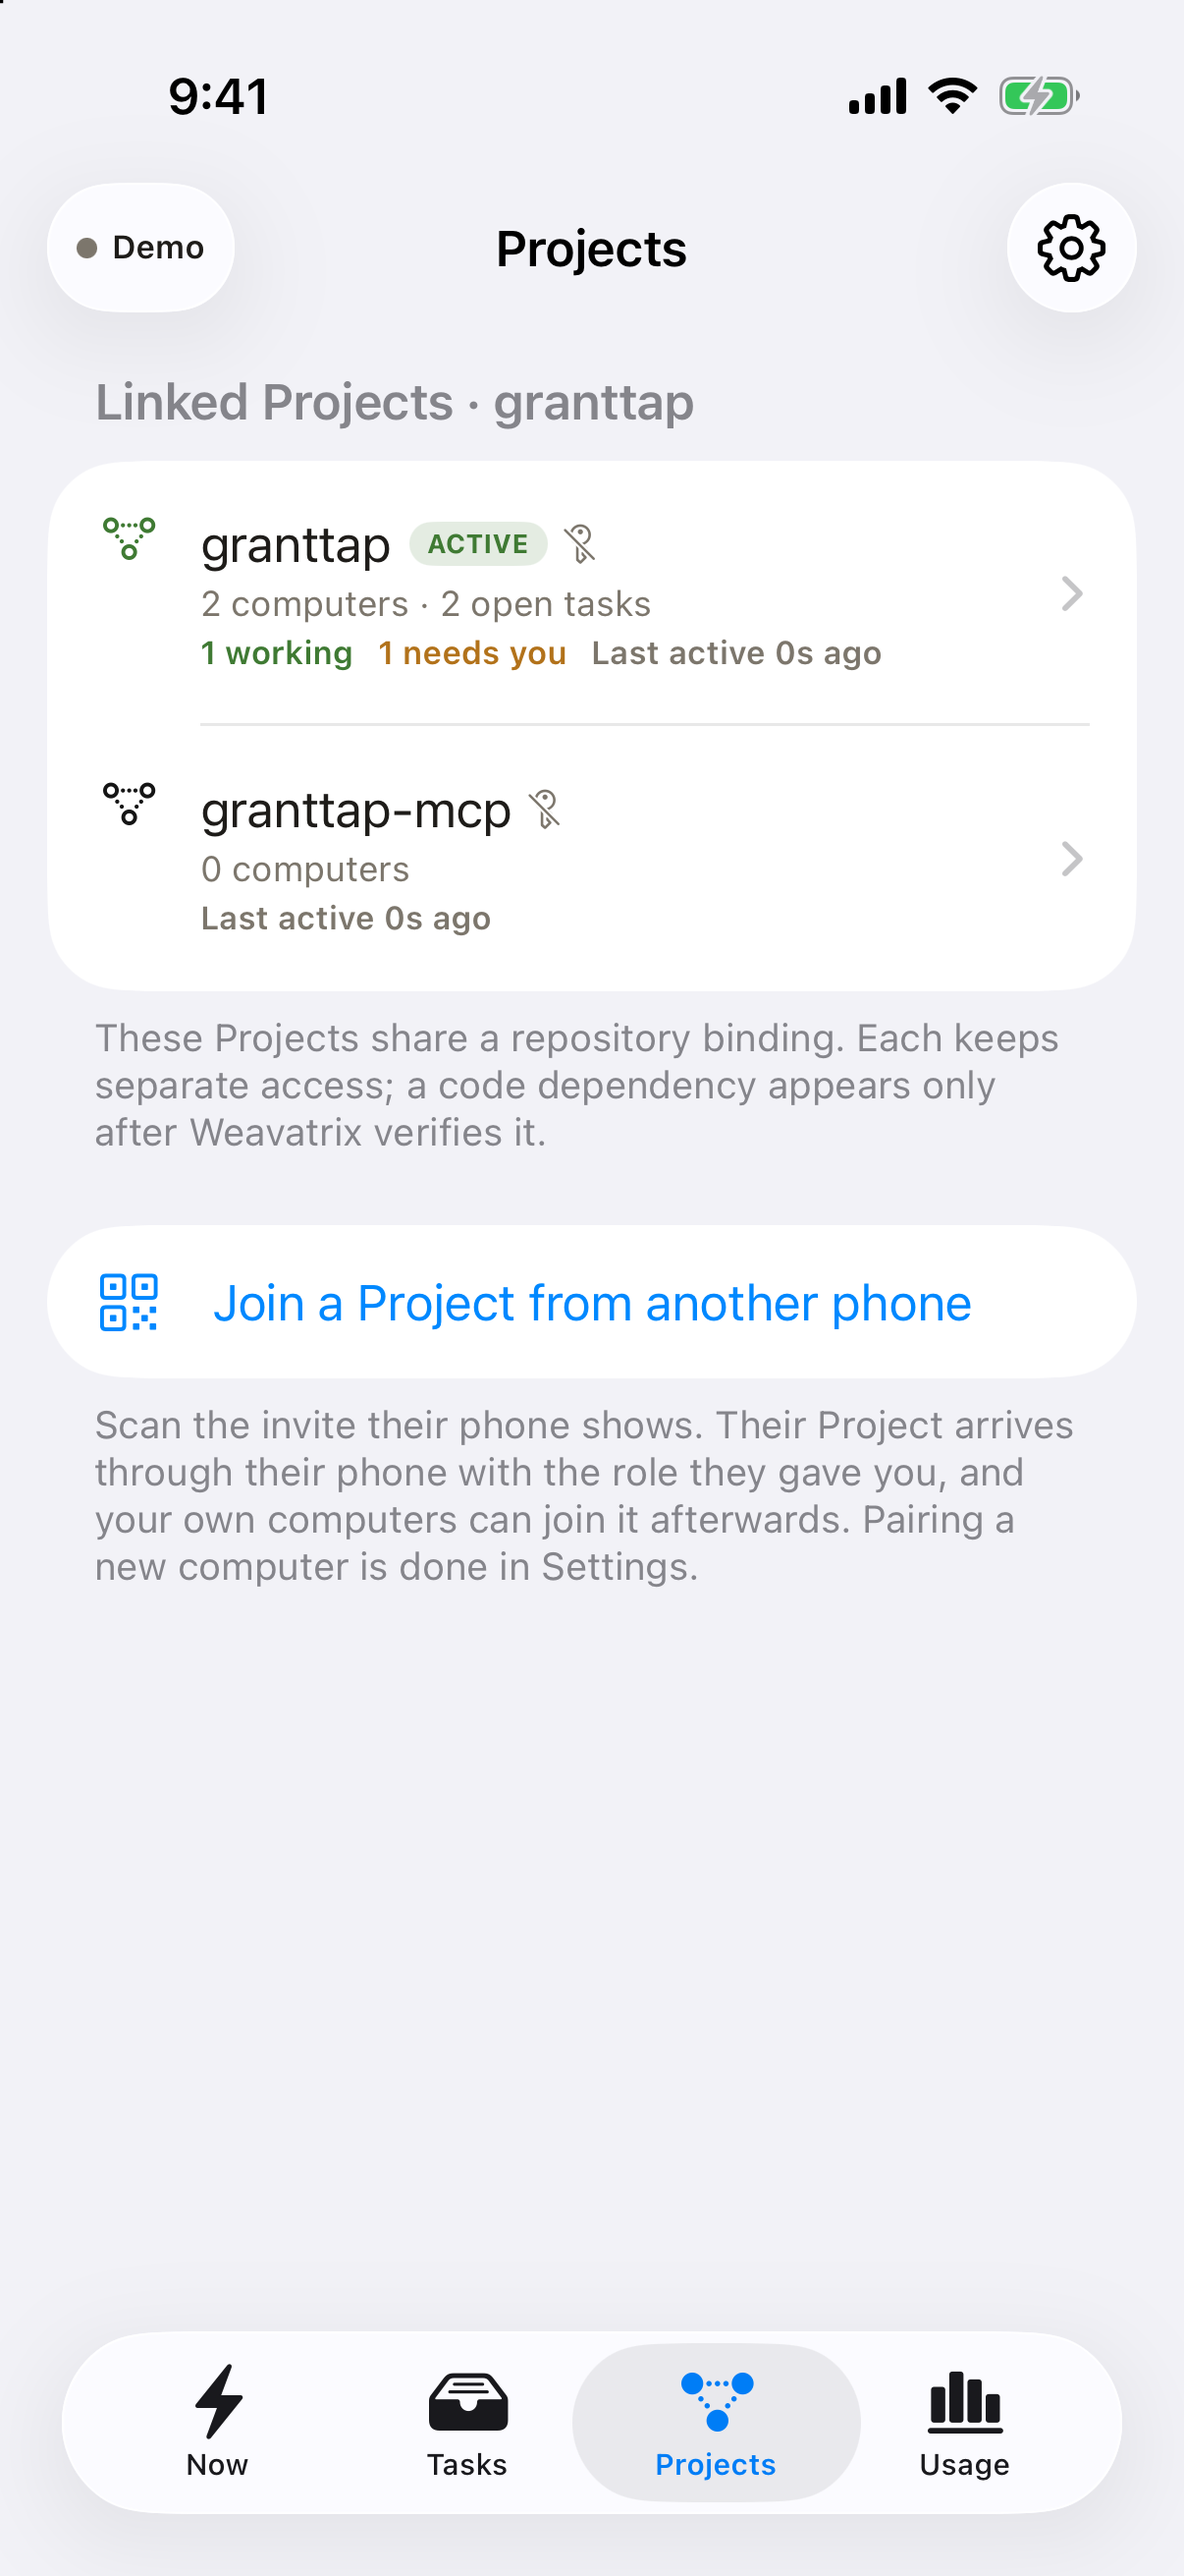
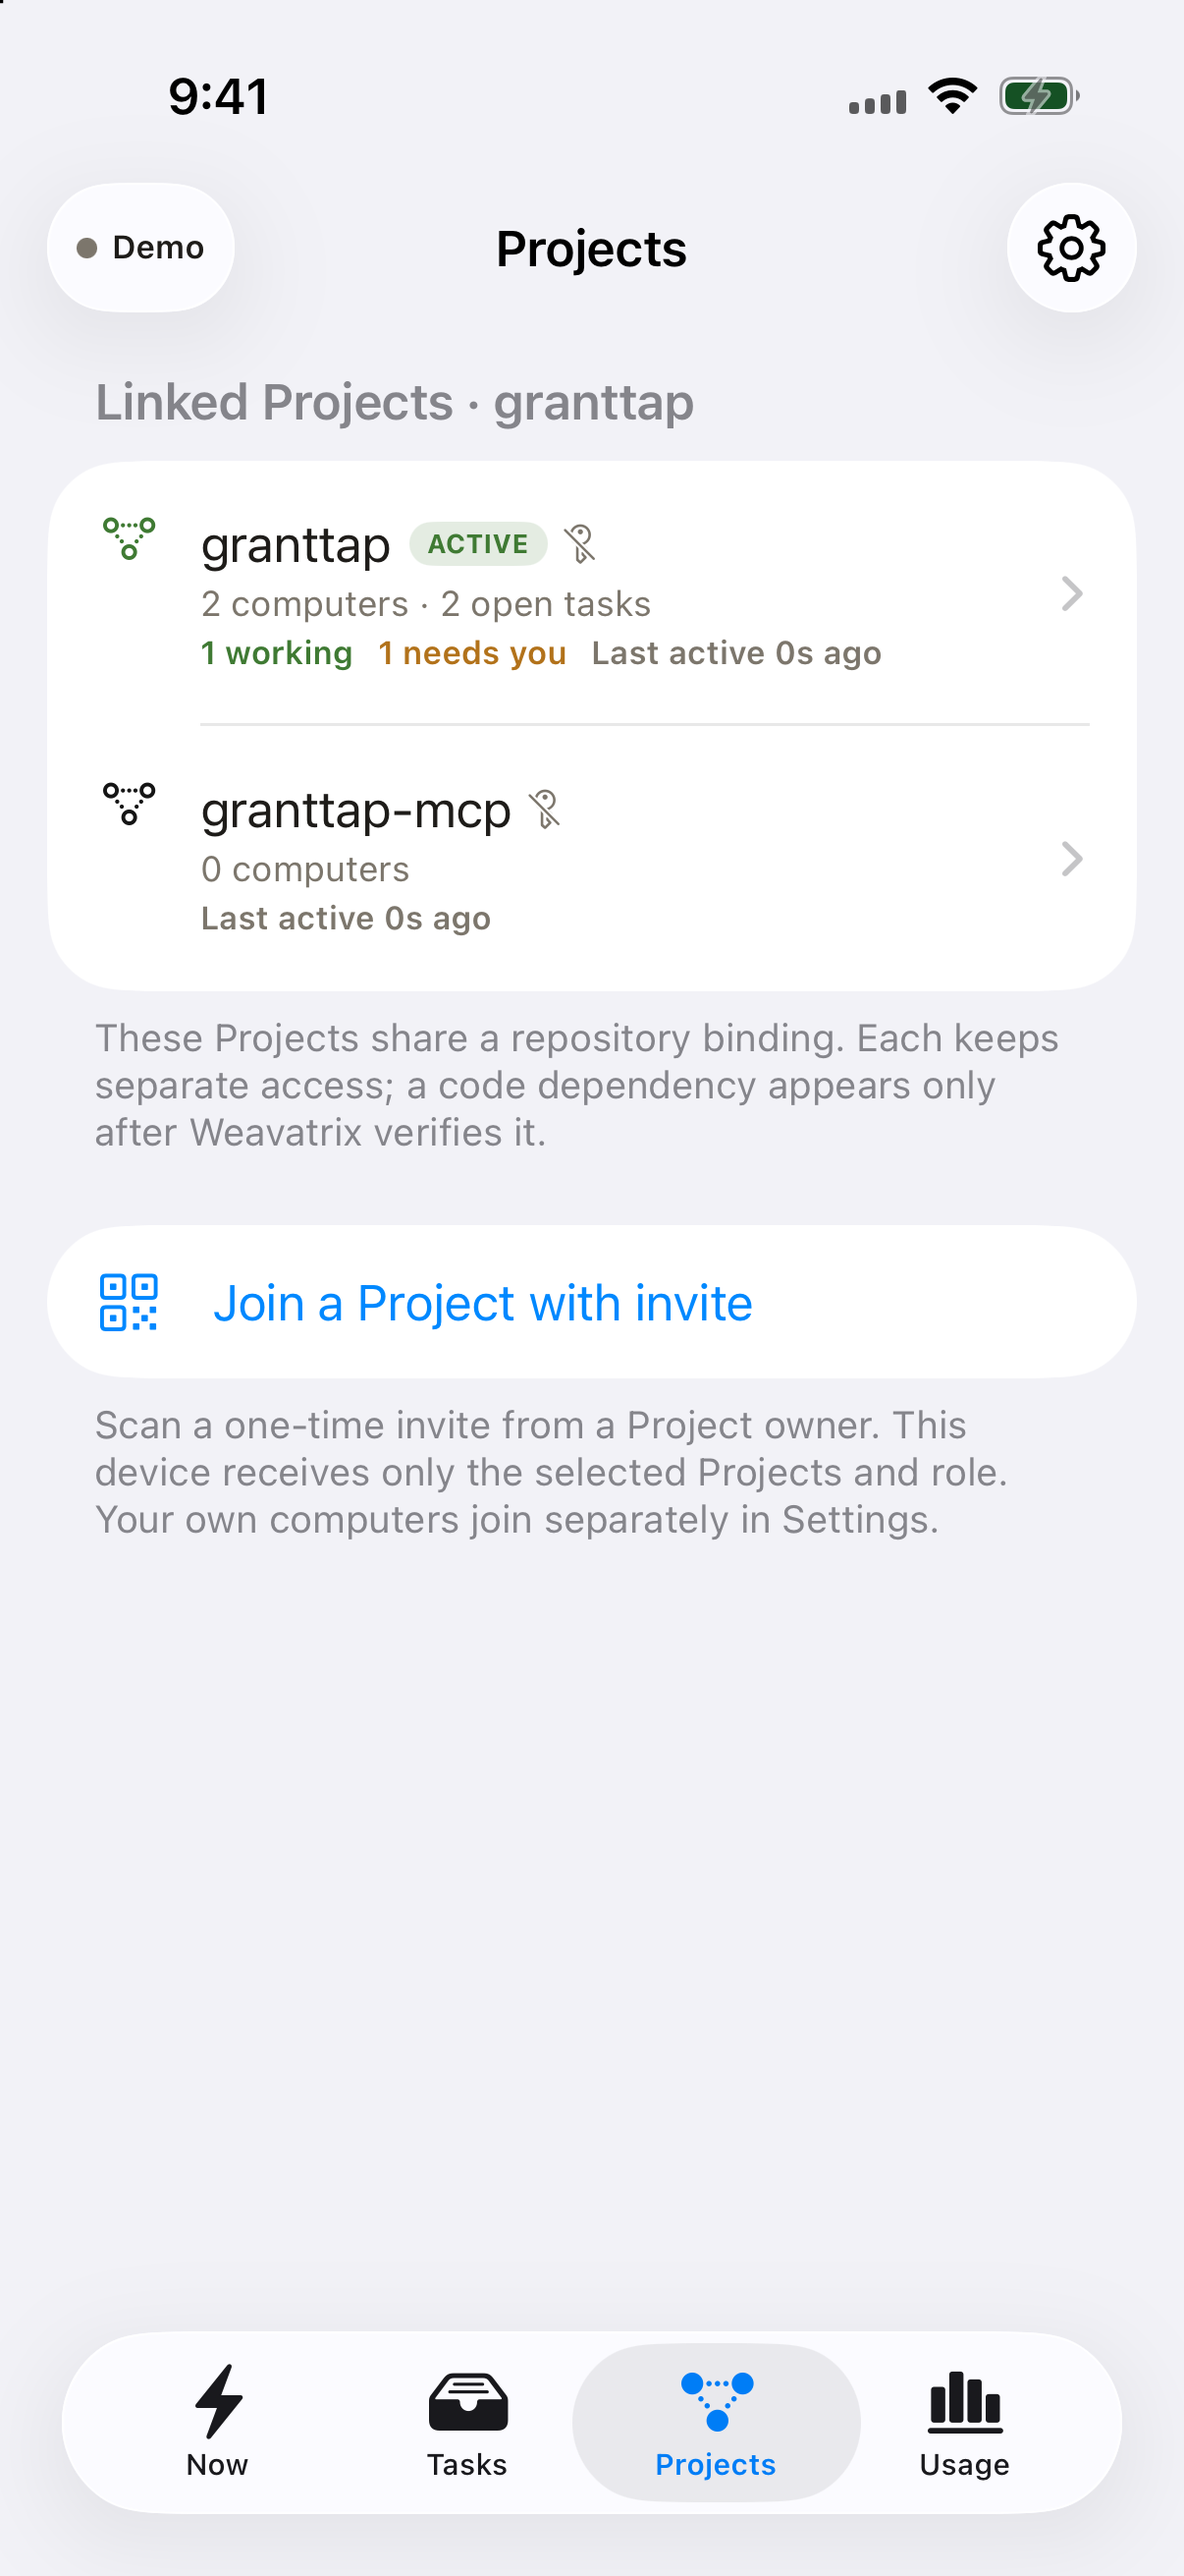
Refresh Project invite screenshot

Changed region(s): [[0.092, 0.4943, 0.859, 0.6178], [0.8284, 0.0309, 0.9204, 0.0618], [0.7363, 0.0309, 0.767, 0.0618]]

diff --git a/README.md b/README.md
@@ -91,8 +91,9 @@ by rsyncing this tree to `/srv/apps/granttap-site/releases/` and
 
 Product captures under `public/product/` must come from deterministic sample
 data and contain no real pairing, task, repository, credential, or audit data.
-`iphone-linked-projects.png` is an iPhone Simulator Debug demo capture. It shows
-binding-level grouping; it does not claim a Weavatrix dependency was observed.
+`iphone-linked-projects.png` is an iPhone Simulator Debug demo capture from
+internal source `1aecdca`. It shows binding-level grouping and the corrected
+device-scoped invite copy; it does not claim a Weavatrix dependency was observed.
 `iphone-weavatrix-graph.png` and `iphone-health-code-towers.png` are kept UI-test
 attachments from deterministic architecture and code-map fixtures. Their
 `demo-revision` label is deliberate; neither depicts a live repository scan.
